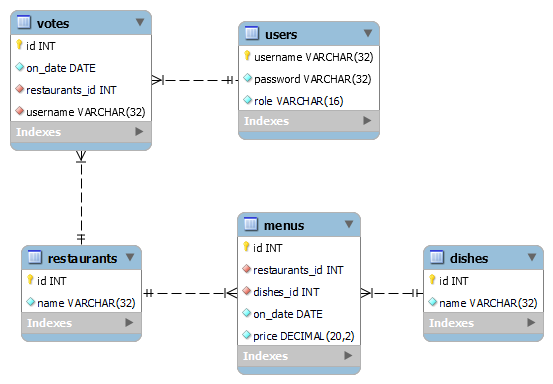
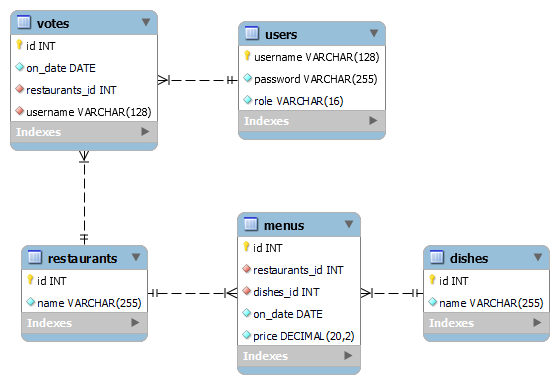
feat: field 'price' of dish move to entity 'menu'
* increase size of fields type varchar

diff --git a/src/test/java/ru/savadevel/wthl/MenuTestData.java b/src/test/java/ru/savadevel/wthl/MenuTestData.java
@@ -7,6 +7,7 @@ import ru.savadevel.wthl.model.Menu;
 import ru.savadevel.wthl.model.Restaurant;
 import ru.savadevel.wthl.to.MenuTo;
 
+import java.math.BigDecimal;
 import java.time.LocalDate;
 
 import static java.time.LocalDate.of;
@@ -23,13 +24,13 @@ public class MenuTestData {
 
     public static final int MENU1_ID = START_SEQ + 4;
 
-    public static final Menu menu1 = new Menu(MENU1_ID, restaurant1, dish1, of(2021, 1, 1));
-    public static final Menu menu2 = new Menu(MENU1_ID + 1, restaurant1, dish2, of(2021, 1, 1));
-    public static final Menu menu3 = new Menu(MENU1_ID + 2, restaurant1, dish2, of(2021, 1, 2));
-    public static final Menu menu4 = new Menu(MENU1_ID + 3, restaurant2, dish1, of(2021, 1, 1));
-    public static final Menu menu5 = new Menu(MENU1_ID + 4, restaurant2, dish2, of(2021, 1, 1));
+    public static final Menu menu1 = new Menu(MENU1_ID, restaurant1, dish1, of(2021, 1, 1), BigDecimal.valueOf(0.53));
+    public static final Menu menu2 = new Menu(MENU1_ID + 1, restaurant1, dish2, of(2021, 1, 1), BigDecimal.valueOf(5.03));
+    public static final Menu menu3 = new Menu(MENU1_ID + 2, restaurant1, dish2, of(2021, 1, 2), BigDecimal.valueOf(5.03));
+    public static final Menu menu4 = new Menu(MENU1_ID + 3, restaurant2, dish1, of(2021, 1, 1), BigDecimal.valueOf(0.53));
+    public static final Menu menu5 = new Menu(MENU1_ID + 4, restaurant2, dish2, of(2021, 1, 1), BigDecimal.valueOf(5.03));
 
     public static Menu getNew(Restaurant restaurant, Dish dish) {
-        return new Menu(null, restaurant, dish, LocalDate.now());
+        return new Menu(null, restaurant, dish, LocalDate.now(), BigDecimal.valueOf(0.55));
     }
 }

diff --git a/src/main/java/ru/savadevel/wthl/model/Dish.java b/src/main/java/ru/savadevel/wthl/model/Dish.java
@@ -1,36 +1,26 @@
 package ru.savadevel.wthl.model;
 
 import com.fasterxml.jackson.annotation.JsonBackReference;
-import lombok.*;
+import lombok.AccessLevel;
+import lombok.Getter;
+import lombok.NoArgsConstructor;
+import lombok.ToString;
 
 import javax.persistence.*;
-import javax.validation.constraints.DecimalMax;
-import javax.validation.constraints.DecimalMin;
-import javax.validation.constraints.NotNull;
-import java.math.BigDecimal;
 import java.util.List;
 
+@Getter
 @ToString(callSuper = true, exclude = "menus")
 @NoArgsConstructor(access = AccessLevel.PROTECTED)
 @Entity
 @Table(name = "dishes", uniqueConstraints = {@UniqueConstraint(columnNames = "name", name = "dishes_unique_name_idx")})
 public class Dish extends AbstractNamedEntity {
 
-    @Getter
-    @Setter
-    @Column(name = "price", nullable = false, precision = 20, scale = 2)
-    @NotNull
-    @DecimalMin("0.01")
-    @DecimalMax("10000.00")
-    private BigDecimal price;
-
-    @Getter
     @OneToMany(mappedBy = "dish", fetch = FetchType.LAZY)
     @JsonBackReference("dish<menu")
     private List<Menu> menus;
 
-    public Dish(Integer id, String name, BigDecimal price) {
+    public Dish(Integer id, String name) {
         super(id, name);
-        this.price = price;
     }
 }

diff --git a/src/main/java/ru/savadevel/wthl/model/Menu.java b/src/main/java/ru/savadevel/wthl/model/Menu.java
@@ -5,7 +5,10 @@ import org.hibernate.annotations.OnDelete;
 import org.hibernate.annotations.OnDeleteAction;
 
 import javax.persistence.*;
+import javax.validation.constraints.DecimalMax;
+import javax.validation.constraints.DecimalMin;
 import javax.validation.constraints.NotNull;
+import java.math.BigDecimal;
 import java.time.LocalDate;
 
 @Getter
@@ -37,10 +40,17 @@ public class Menu extends AbstractBaseEntity {
     @NotNull
     private LocalDate date;
 
-    public Menu(Integer id, Restaurant restaurant, Dish dish, LocalDate date) {
+    @Column(name = "price", nullable = false, precision = 20, scale = 2)
+    @NotNull
+    @DecimalMin("0.01")
+    @DecimalMax("10000.00")
+    private BigDecimal price;
+
+    public Menu(Integer id, Restaurant restaurant, Dish dish, LocalDate date, BigDecimal price) {
         super(id);
         this.restaurant = restaurant;
         this.dish = dish;
         this.date = date;
+        this.price = price;
     }
 }

diff --git a/src/test/java/ru/savadevel/wthl/DishTestData.java b/src/test/java/ru/savadevel/wthl/DishTestData.java
@@ -4,8 +4,6 @@ import lombok.AccessLevel;
 import lombok.NoArgsConstructor;
 import ru.savadevel.wthl.model.Dish;
 
-import java.math.BigDecimal;
-
 import static ru.savadevel.wthl.model.AbstractBaseEntity.START_SEQ;
 
 @NoArgsConstructor(access = AccessLevel.PRIVATE)
@@ -14,10 +12,10 @@ public class DishTestData {
 
     public static final int DISH1_ID = START_SEQ;
 
-    public static final Dish dish1 = new Dish(DISH1_ID, "first dish", BigDecimal.valueOf(0.53));
-    public static final Dish dish2 = new Dish(DISH1_ID + 1, "second dish", BigDecimal.valueOf(5.03));
+    public static final Dish dish1 = new Dish(DISH1_ID, "first dish");
+    public static final Dish dish2 = new Dish(DISH1_ID + 1, "second dish");
 
     public static Dish getNew() {
-        return new Dish(null, "New dish", BigDecimal.valueOf(0.55));
+        return new Dish(null, "New dish");
     }
 }

diff --git a/src/main/java/ru/savadevel/wthl/util/MenuUtil.java b/src/main/java/ru/savadevel/wthl/util/MenuUtil.java
@@ -12,10 +12,10 @@ import java.time.LocalDate;
 @NoArgsConstructor(access = AccessLevel.PRIVATE)
 public class MenuUtil {
     public static Menu createNewFromTo(MenuTo menuTo) {
-        return new Menu(null, new Restaurant(menuTo.getRestaurantId(), null), new Dish(menuTo.getDishId(), null, null), LocalDate.now());
+        return new Menu(null, new Restaurant(menuTo.getRestaurantId(), null), new Dish(menuTo.getDishId(), null), LocalDate.now(), menuTo.getPrice());
     }
 
     public static MenuTo asTo(Menu menu) {
-        return new MenuTo(menu.getId(), menu.getRestaurant().id(), menu.getDish().id());
+        return new MenuTo(menu.getId(), menu.getRestaurant().id(), menu.getDish().id(), menu.getPrice());
     }
 }

diff --git a/src/main/java/ru/savadevel/wthl/model/Restaurant.java b/src/main/java/ru/savadevel/wthl/model/Restaurant.java
@@ -9,18 +9,17 @@ import lombok.ToString;
 import javax.persistence.*;
 import java.util.List;
 
+@Getter
 @ToString(callSuper = true, exclude = {"menus", "votes"})
 @NoArgsConstructor(access = AccessLevel.PROTECTED)
 @Entity
 @Table(name = "restaurants", uniqueConstraints = {@UniqueConstraint(columnNames = "name", name = "restaurants_unique_name_idx")})
 public class Restaurant extends AbstractNamedEntity {
 
-    @Getter
     @OneToMany(mappedBy = "restaurant", fetch = FetchType.LAZY)
     @JsonBackReference("restaurant<menu")
     private List<Menu> menus;
 
-    @Getter
     @OneToMany(mappedBy = "restaurant", fetch = FetchType.LAZY)
     @JsonBackReference("restaurant<vote")
     private List<Vote> votes;

diff --git a/src/main/java/ru/savadevel/wthl/repository/VoteRepository.java b/src/main/java/ru/savadevel/wthl/repository/VoteRepository.java
@@ -28,8 +28,8 @@ public interface VoteRepository extends JpaRepository<Vote, Integer> {
     List<Votes> getAmount(@Param("date") LocalDate date);
 
     @EntityGraph(VOTE_RESTAURANT)
-    Vote getVoteByUserUsernameAndDate(@NotBlank @Size(min = 3, max = 32) String username, @NotNull LocalDate date);
+    Vote getVoteByUserUsernameAndDate(@NotBlank @Size(min = 3, max = 128) String username, @NotNull LocalDate date);
 
     @EntityGraph(VOTE_RESTAURANT)
-    Vote getVoteByIdAndUserUsername(Integer id, @NotBlank @Size(min = 3, max = 32) String username);
+    Vote getVoteByIdAndUserUsername(Integer id, @NotBlank @Size(min = 3, max = 128) String username);
 }

diff --git a/src/main/java/ru/savadevel/wthl/to/MenuTo.java b/src/main/java/ru/savadevel/wthl/to/MenuTo.java
@@ -5,6 +5,7 @@ import lombok.NoArgsConstructor;
 import lombok.Setter;
 
 import javax.validation.constraints.NotNull;
+import java.math.BigDecimal;
 
 @Getter
 @Setter
@@ -14,10 +15,13 @@ public class MenuTo extends BaseTo {
     private Integer restaurantId;
     @NotNull
     private Integer dishId;
+    @NotNull
+    private BigDecimal price;
 
-    public MenuTo(Integer id, Integer restaurantId, Integer dishId) {
+    public MenuTo(Integer id, Integer restaurantId, Integer dishId, BigDecimal price) {
         super(id);
         this.restaurantId = restaurantId;
         this.dishId = dishId;
+        this.price = price;
     }
 }

diff --git a/src/main/java/ru/savadevel/wthl/model/User.java b/src/main/java/ru/savadevel/wthl/model/User.java
@@ -22,14 +22,14 @@ public class User implements Persistable<String> {
     @GeneratedValue
     @Column(name = "username", unique = true, nullable = false, columnDefinition="VARCHAR(32)")
     @NotBlank
-    @Size(min = 3, max = 32)
+    @Size(min = 3, max = 128)
     private String username;
 
     @Getter
     @Setter
     @Column(name = "password", nullable = false, columnDefinition="VARCHAR(32)")
     @NotBlank
-    @Size(min = 3, max = 32)
+    @Size(min = 3, max = 255)
     private String password;
 
     @Getter
